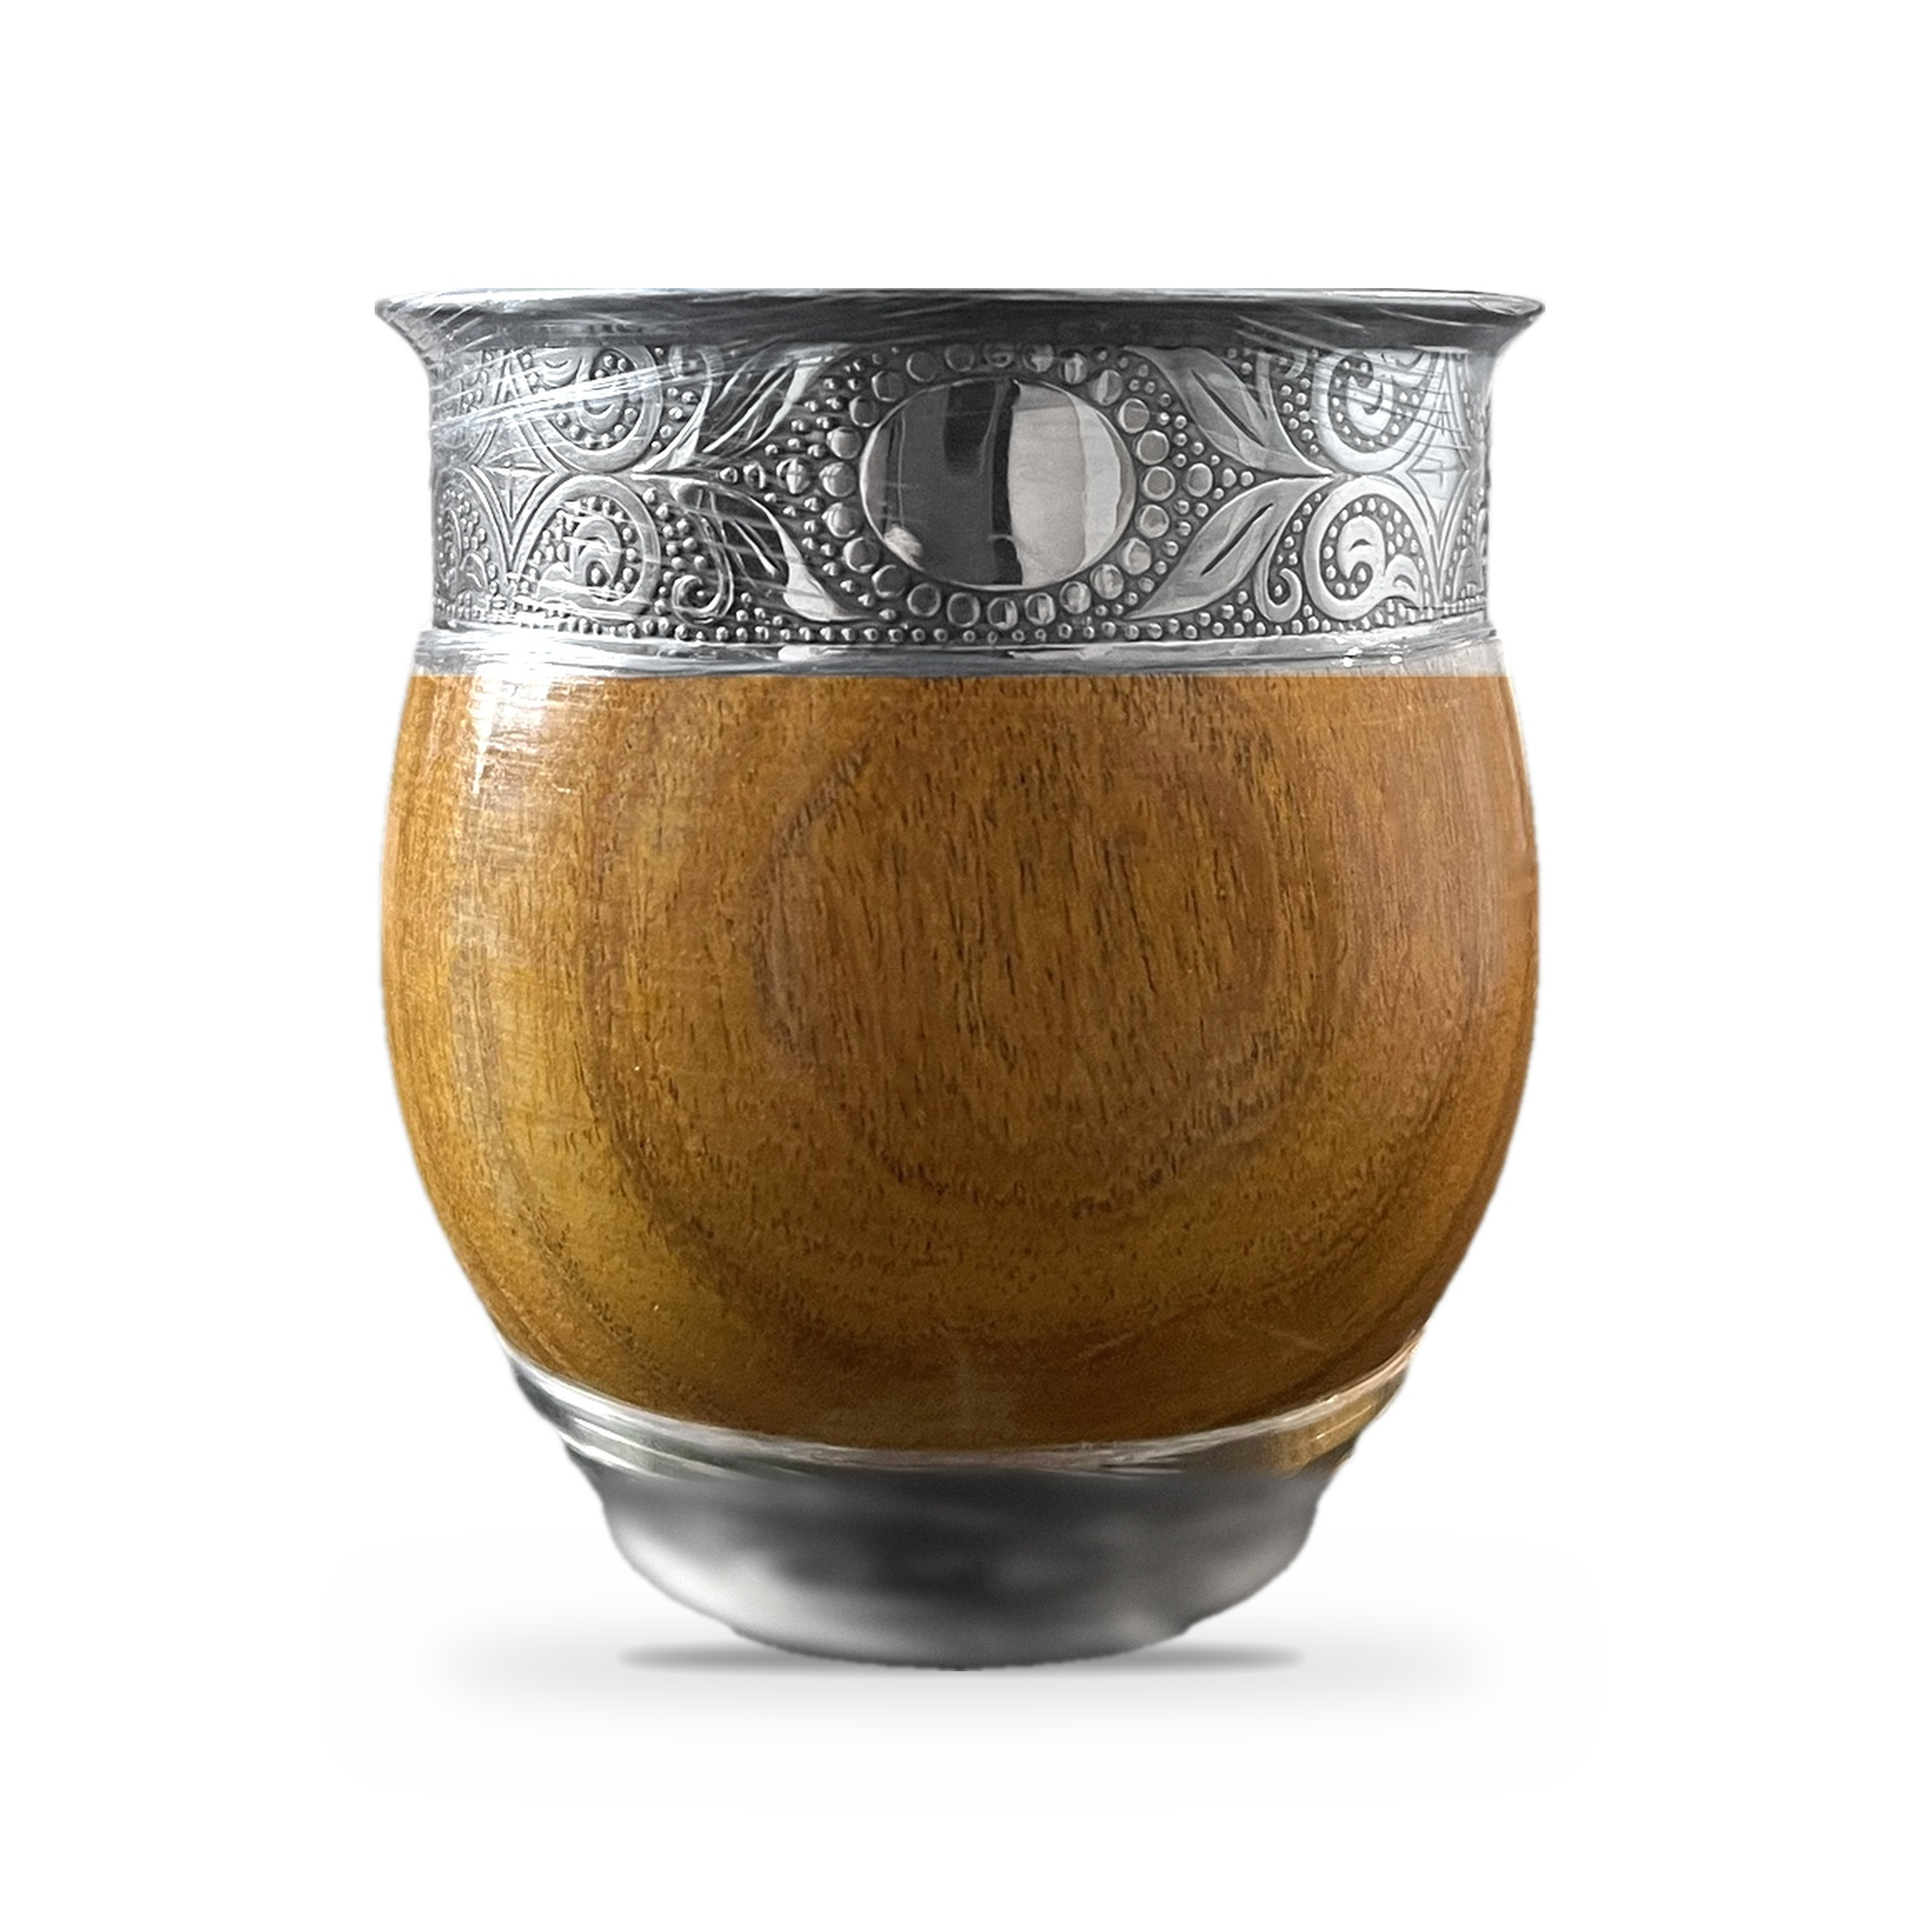
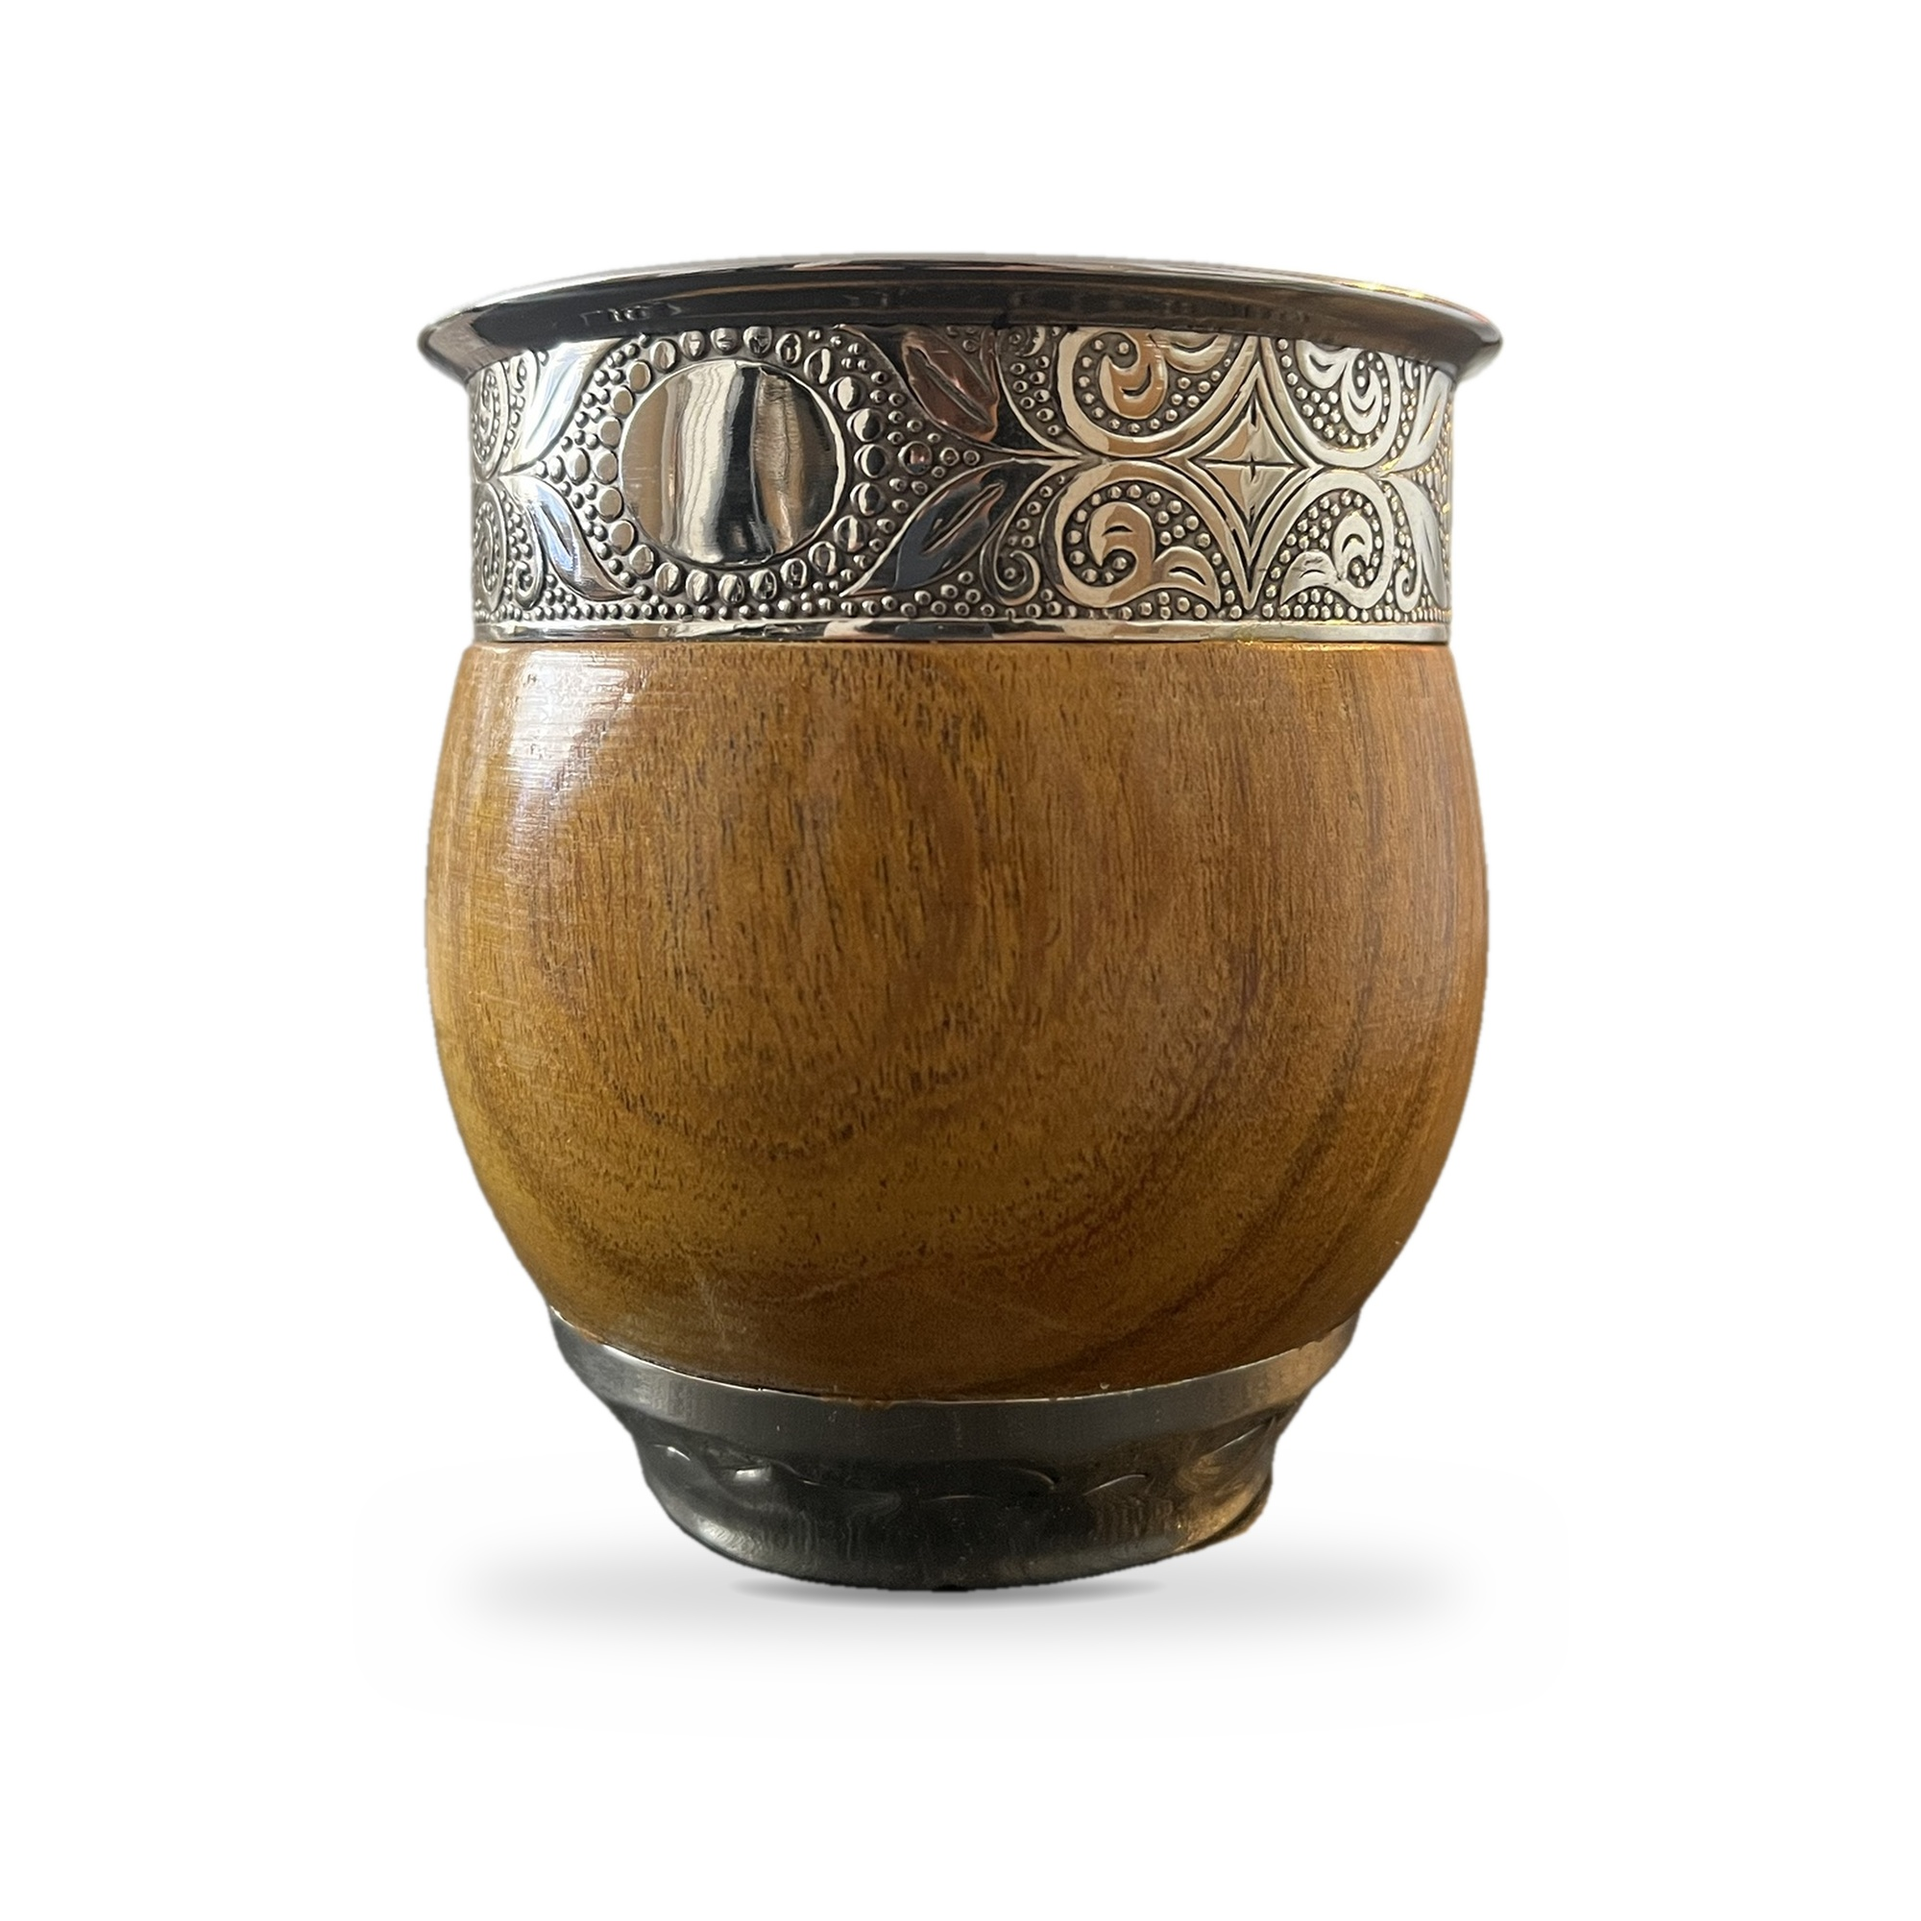
Fotos de producto sobre fondo blanco de siete mates
tools/fondo_blanco.py: recorte (BiRefNet), borde sin halo de la mesa,
producto centrado al mismo alto en 2000x2000 y sombra desde su propia
base. El mate de algarrobo ahora sale de la foto sin plástico, así que
reemplaza a la versión retocada.

Claude-Session: https://claude.ai/code/session_012H3xPSmbqKoMmc2aK7okNH

Changed region(s): [[0.186, 0.124, 0.806, 0.899]]

diff --git a/tools/fondo_blanco.py b/tools/fondo_blanco.py
@@ -1,0 +1,84 @@
+"""Foto de producto sobre fondo blanco, para la tienda.
+
+Uso:
+  python fondo_blanco.py FOTO MASCARA SALIDA
+
+- MASCARA: recorte del producto (rembg, birefnet-general).
+- Salida cuadrada de 2000x2000, blanco puro, el producto centrado y siempre
+  al mismo alto (o ancho, si es más ancho que alto), para que la tienda se
+  vea pareja.
+- El borde se limpia: se achica 1 px y se suaviza, y en esa franja el color
+  se toma del interior del producto, para que no quede el halo oscuro de la
+  mesa.
+- La sombra sale de la huella real del producto (la última franja del
+  recorte: patas, base), aplastada y difuminada, más una sombra amplia y
+  tenue. El producto no se toca: ni forma ni color.
+"""
+
+import sys
+
+import cv2
+import numpy as np
+
+LADO = 2000
+ALTO = 0.70  # fracción del lado que ocupa el producto
+MARGEN_ABAJO = 0.17
+
+
+def main():
+    src, mask_path, out_path = sys.argv[1:4]
+    im = cv2.imread(src)
+    h, w = im.shape[:2]
+    m = cv2.imread(mask_path, 0)
+    m = cv2.resize(m, (w, h), interpolation=cv2.INTER_LINEAR)
+
+    # Una sola pieza: la mancha más grande (fuera reflejos sueltos).
+    duro = (m > 128).astype(np.uint8)
+    n, lab, st, _ = cv2.connectedComponentsWithStats(duro)
+    duro = (lab == 1 + np.argmax(st[1:, cv2.CC_STAT_AREA])).astype(np.uint8) * 255
+    cont, _ = cv2.findContours(duro, cv2.RETR_EXTERNAL, cv2.CHAIN_APPROX_NONE)
+    lleno = np.zeros_like(duro)
+    cv2.drawContours(lleno, cont, -1, 255, -1)
+    interior = cv2.erode(lleno, np.ones((3, 3), np.uint8))
+    alfa = cv2.GaussianBlur(interior, (0, 0), 1.0).astype(np.float32) / 255
+
+    # Borde sin halo: en la franja del borde, el color del interior cercano.
+    adentro = cv2.erode(lleno, np.ones((9, 9), np.uint8))
+    franja = (interior > 0) & (adentro == 0)
+    relleno = cv2.inpaint(im, franja.astype(np.uint8) * 255, 3, cv2.INPAINT_TELEA)
+    limpio = im.copy()
+    limpio[franja] = (im[franja] * 0.4 + relleno[franja] * 0.6).astype(np.uint8)
+
+    ys, xs = np.where(alfa > 0.05)
+    y0, y1, x0, x1 = ys.min(), ys.max(), xs.min(), xs.max()
+    pw, ph = x1 - x0 + 1, y1 - y0 + 1
+    esc = min(LADO * ALTO / ph, LADO * 0.78 / pw)
+    nw, nh = int(pw * esc), int(ph * esc)
+    prod = cv2.resize(limpio[y0 : y1 + 1, x0 : x1 + 1], (nw, nh), interpolation=cv2.INTER_LANCZOS4).astype(np.float32)
+    a = cv2.resize(alfa[y0 : y1 + 1, x0 : x1 + 1], (nw, nh), interpolation=cv2.INTER_LINEAR)[..., None]
+
+    lienzo = np.full((LADO, LADO, 3), 255, np.float32)
+    px = (LADO - nw) // 2
+    py = int(LADO * (1 - MARGEN_ABAJO)) - nh
+
+    # Sombra de la huella: la franja de abajo del recorte, aplastada.
+    huella = (a[..., 0] > 0.5).astype(np.float32)
+    alto_h = max(4, int(nh * 0.035))
+    pie = huella[nh - alto_h :]
+    sombra = np.zeros((LADO, LADO), np.float32)
+    pie_pl = cv2.resize(pie, (nw, max(2, alto_h // 2)), interpolation=cv2.INTER_AREA)
+    yb = py + nh - pie_pl.shape[0] // 2
+    sombra[yb : yb + pie_pl.shape[0], px : px + nw] = np.maximum(sombra[yb : yb + pie_pl.shape[0], px : px + nw], pie_pl * 0.55)
+    sombra = cv2.GaussianBlur(sombra, (0, 0), 9)
+    amplia = np.zeros((LADO, LADO), np.float32)
+    cv2.ellipse(amplia, (LADO // 2, py + nh - 4), (int(nw * 0.46), max(14, int(nh * 0.03))), 0, 0, 360, 0.16, -1)
+    sombra = np.maximum(sombra, cv2.GaussianBlur(amplia, (0, 0), 28))
+    lienzo *= 1 - sombra[..., None]
+
+    reg = lienzo[py : py + nh, px : px + nw]
+    reg[:] = reg * (1 - a) + prod * a
+    cv2.imwrite(out_path, np.clip(lienzo, 0, 255).astype(np.uint8), [cv2.IMWRITE_JPEG_QUALITY, 95])
+
+
+if __name__ == "__main__":
+    main()

diff --git a/entregas/producto/README.md b/entregas/producto/README.md
@@ -1,0 +1,19 @@
+# Fotos de producto sobre fondo blanco
+
+2000×2000, blanco puro, cada mate centrado y al mismo alto (70% del cuadro),
+con una sombra suave que sale de su propia base o patas. Los mates no se
+retocaron: forma y color son los de la foto (`originales/`).
+
+Para hacer una nueva:
+
+```
+# recorte (un proceso por foto: el modelo es pesado)
+python -c "from rembg import remove, new_session; from PIL import Image; \
+  s=new_session('birefnet-general'); \
+  remove(Image.open('FOTO.jpg').convert('RGB'), session=s, only_mask=True).save('mascara.png')"
+python tools/fondo_blanco.py FOTO.jpg mascara.png SALIDA.jpg
+```
+
+Consejos para las fotos: el mate solo sobre la mesa, sin plástico, la cámara a
+la altura del mate y lo más cerca posible (que ocupe la mitad del cuadro):
+cuanto más grande sale en la foto, más nítido queda en la tienda.
